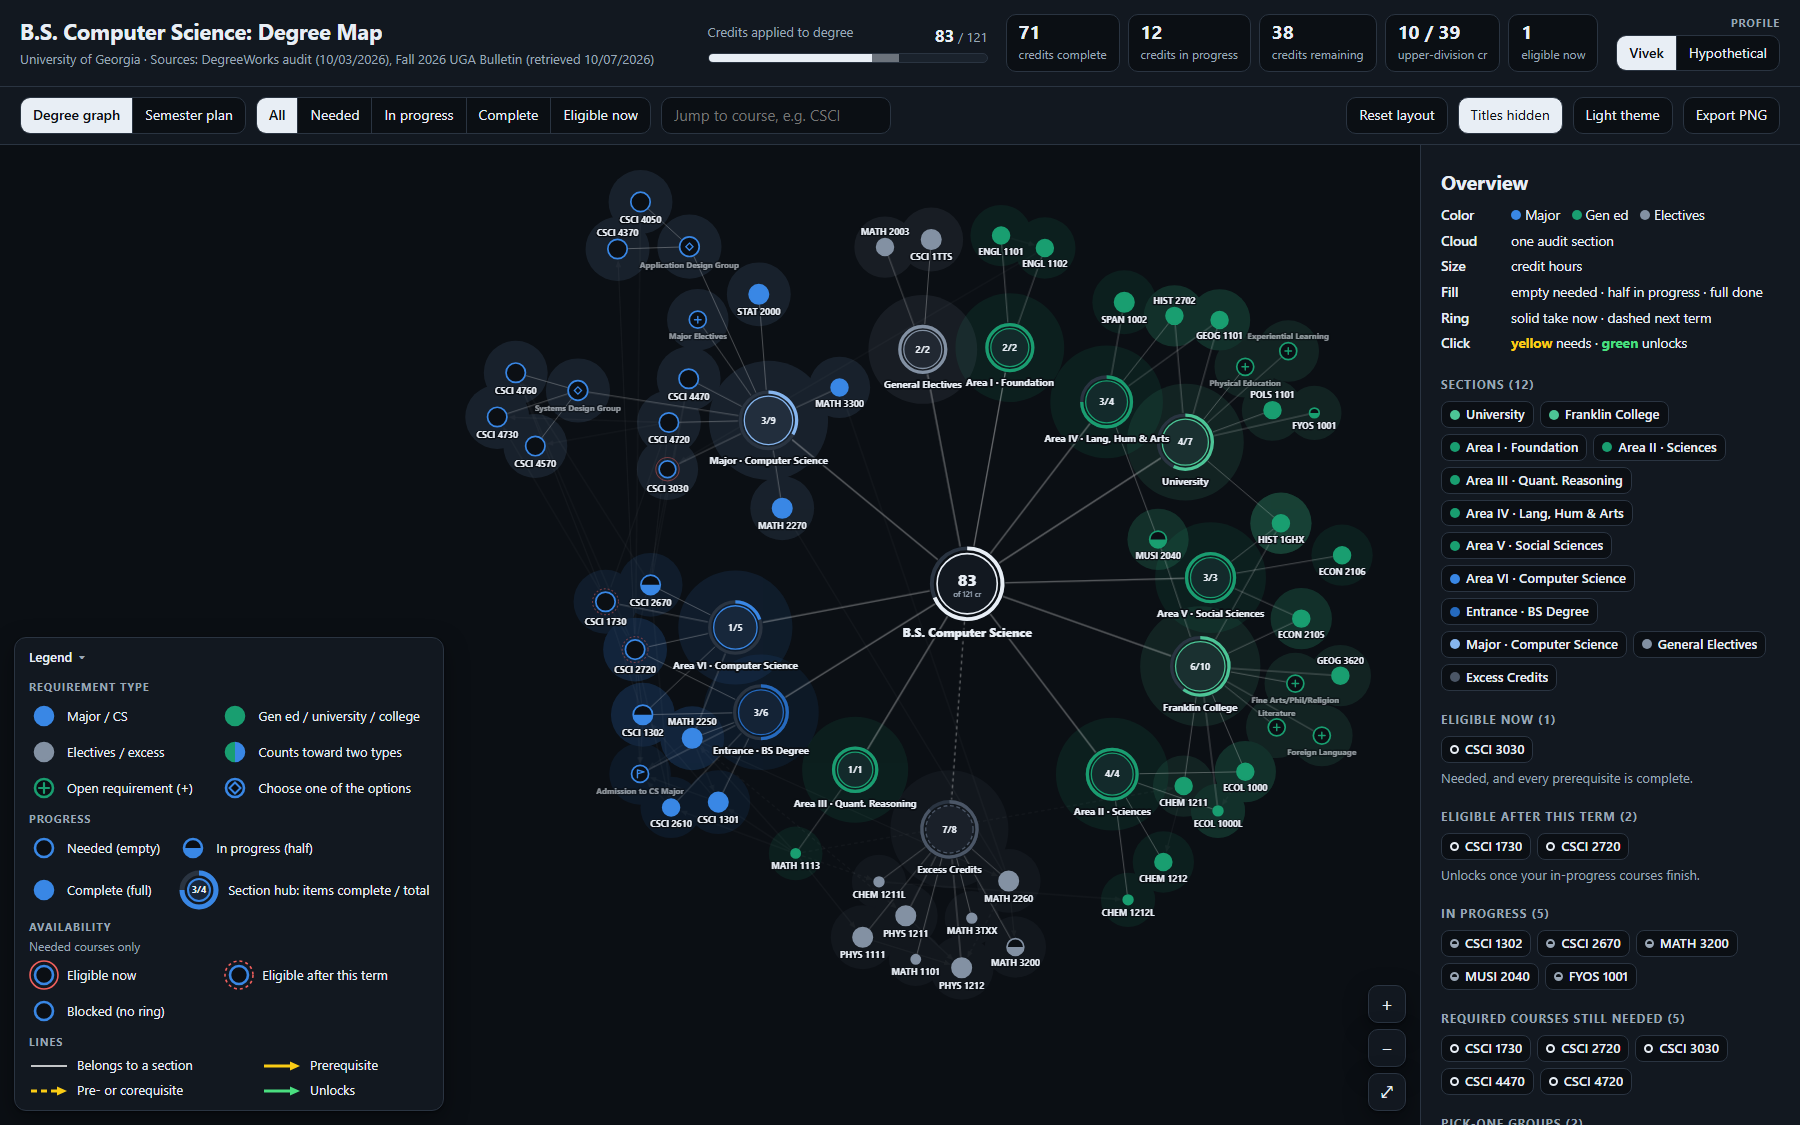
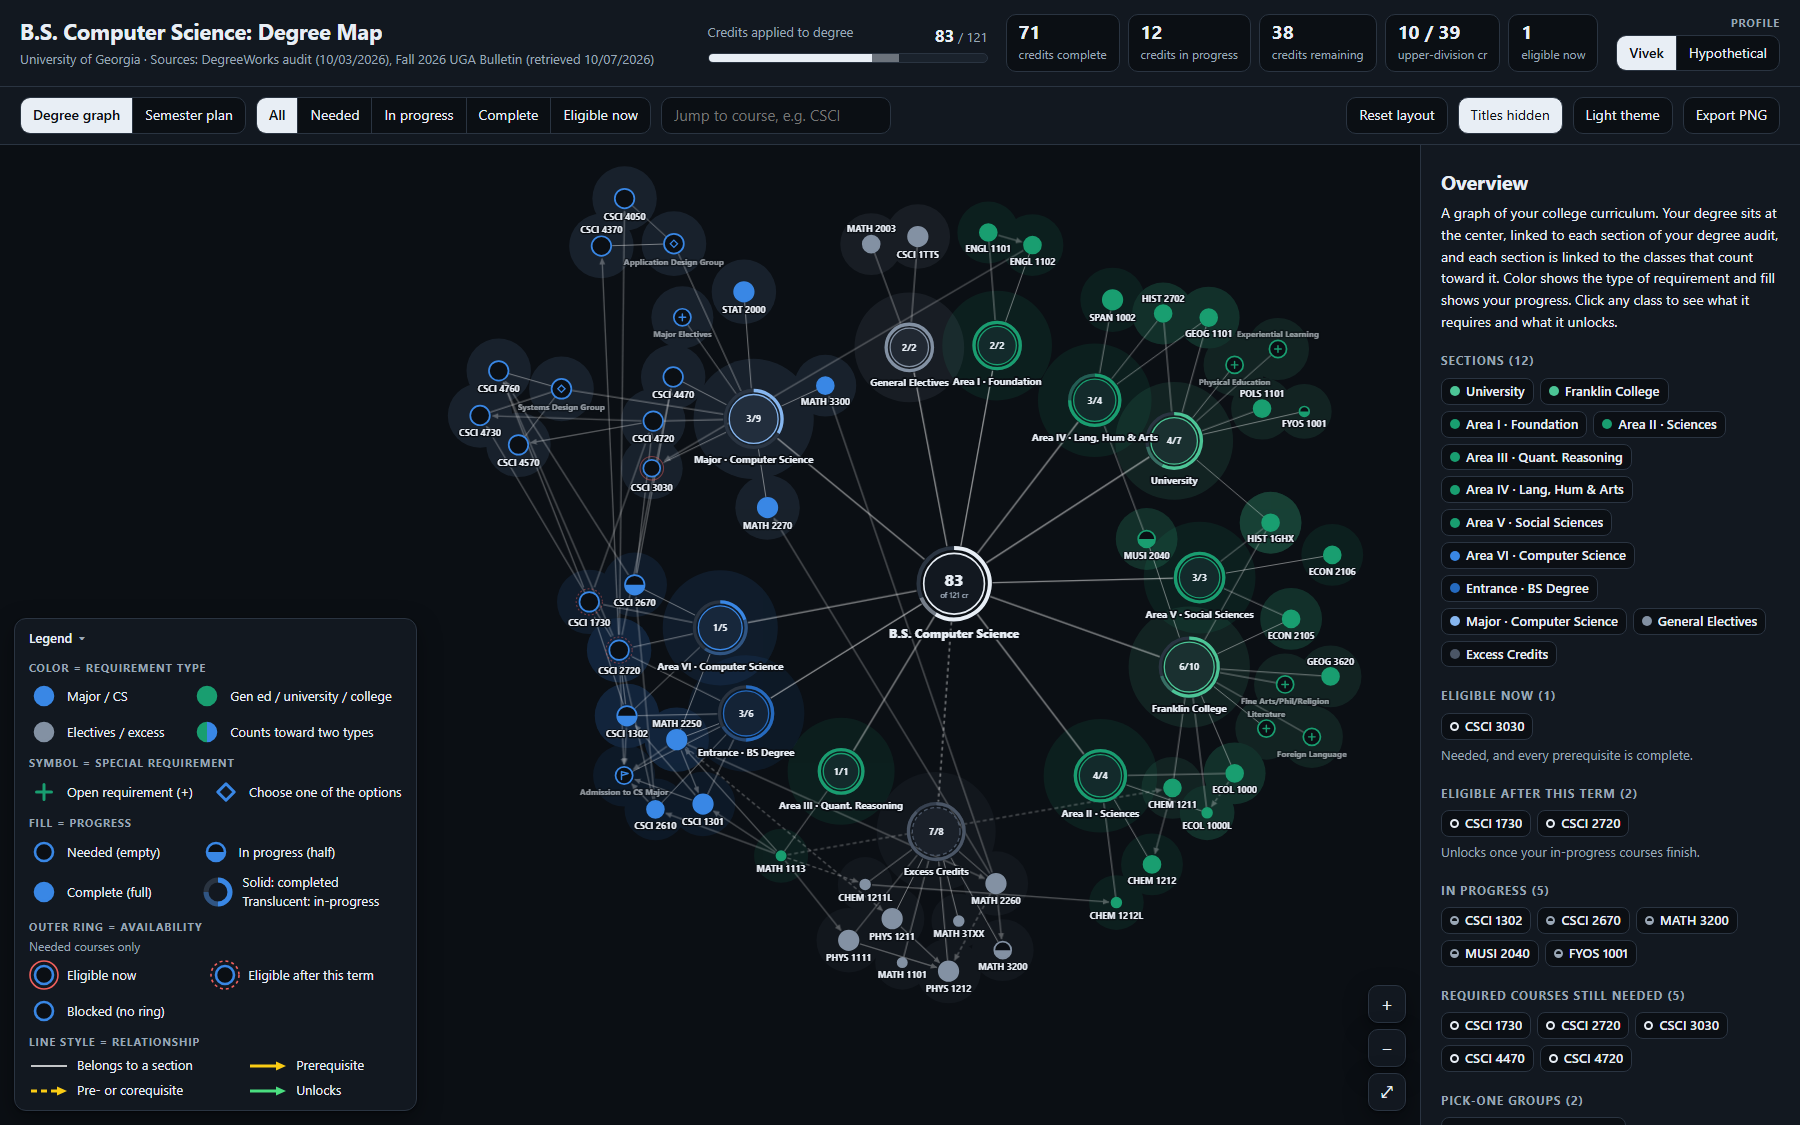
better progress tracking.

diff --git a/degree-map.html b/degree-map.html
@@ -74,6 +74,8 @@ main{flex:1;display:flex;min-height:0}
 .legend .secs-grid{display:grid;grid-template-columns:repeat(3,auto);gap:4px 14px}
 .legend .lg-h{font-size:11px;font-weight:700;text-transform:uppercase;letter-spacing:.08em;color:var(--muted);margin:8px 0 6px}
 .legend .lg-note{font-size:12px;color:var(--muted);margin:-3px 0 5px}
+.legend .lg-sub{font-size:12px;color:var(--muted);margin:2px 0 4px}
+.legend .lg-sub~.lg-sub{margin-top:8px}
 .legend .grid{grid-template-columns:auto auto}
 .legend button.sec{border:0;background:none;padding:2px 0;cursor:pointer;font-size:13px;text-align:left}
 .legend button.sec:hover{text-decoration:underline}
@@ -1562,6 +1564,8 @@ function renderLegend() {
     el("line", { x1: -18, y1: 0, x2: arrow ? 9 : 18, y2: 0, stroke: col, "stroke-width": st.w, "stroke-dasharray": st.dash, "stroke-linecap": st.cap || "butt" }, g);
     if (arrow) el("path", { d: "M8,-4.5 L18,0 L8,4.5 Z", fill: col }, g);
   });
+  // A labelled sub-block inside a section (used to separate class progress from section progress).
+  const sub = (label, rows) => `<div class="lg-sub">${label}</div><div class="grid">${rows.map(([sv, l]) => `<div class="it">${sv}<span>${l}</span></div>`).join("")}</div>`;
   const group = (h, rows, note) => `<div><div class="lg-h">${h}</div>${note ? `<div class="lg-note">${note}</div>` : ""}<div class="grid">${rows.map(([sv, l]) => `<div class="it">${sv}<span>${l}</span></div>`).join("")}</div></div>`;
   const hub = glyph(34, 34, g => progressRing(g, 12, 5, [[2, pal.fam.cs], [1, pal.fam.cs, 0.4], [1, "none"]], pal));
   document.getElementById("legend").innerHTML =
@@ -1575,12 +1579,15 @@ function renderLegend() {
       [symbol("M-5 0 H5 M0 -5 V5", pal.fam.gen), "Open requirement (+)"],
       [symbol("M0 -5.5 L5.5 0 L0 5.5 L-5.5 0 Z", pal.fam.cs), "Choose one of the options"],
     ])
-    + group("Fill = Progress", [
+    + `<div><div class="lg-h">Fill = Progress</div>`
+    + sub("Classes", [
       [node({ status: "needed" }), "Needed (empty)"],
       [node({ status: "in_progress" }), "In progress (half)"],
       [node({ status: "complete" }), "Complete (full)"],
-      [hub, "Solid: completed<br>Translucent: in-progress"],
     ])
+    + sub("Degree/Individual Sections", [
+      [hub, "Solid: completed<br>Translucent: in-progress"],
+    ]) + `</div>`
     + group("Outer ring = Availability", [
       [node({ status: "needed", elig: "now" }), "Eligible now"],
       [node({ status: "needed", elig: "next" }), "Eligible after this term"],

diff --git a/README.md b/README.md
@@ -51,26 +51,31 @@ Switching saves the choice and reloads the page. Planner settings are saved sepa
 
 ### Reading the graph
 
-Each visual property has exactly one meaning:
+Each visual property has exactly one meaning. The table follows the legend's sections, which are named the same way:
 
-| Property | Meaning |
+| Legend section | Meaning |
 |---|---|
-| **Color** | Requirement type: **blue** = major / CS (Major, Area VI, Entrance), **green** = gen ed / university / college (Areas I–V, University, Franklin College), **gray** = electives / excess. Sections of the same type use lighter or darker shades of one hue. An item that counts toward two types is split between both colors. |
-| **Fill** | Progress: **empty** = needed, **half** = in progress, **full** = complete. |
-| **Thin red outer ring** | Eligibility, shown only on courses you still need: **solid** = eligible now, **dashed** = eligible after this term, **no ring** = blocked. |
-| **Size** | Credit hours: circle area is proportional to credits (a 4-cr course has 4× the area of a 1-cr course). |
-| **Inner symbol** | Node kind: **none** = course, **+** = open requirement (e.g. Literature, Major Electives), **◇** = pick one (Application Design, Systems Design), **flag** = milestone (Admission to CS Major). Outlines are always solid. |
-| **Lines** | A thin **white line** (dark in light mode) links a course to its section, a section to the degree, and a pick-one group to its options. Prerequisite arrows are hidden until you click a course: then **yellow** arrows show what it needs and **green** arrows what it unlocks. A **solid** arrow is a prerequisite (finish it in an earlier term; "one of several" alternatives included). A **dashed** arrow is a pre- or corequisite (take it before or in the same term). The side panel lists the full AND/OR groups. |
+| **Color = Requirement type** | **Blue** = major / CS (Major, Area VI, Entrance), **green** = gen ed / university / college (Areas I–V, University, Franklin College), **gray** = electives / excess. Sections of the same type use lighter or darker shades of one hue. An item that counts toward two types is split between both colors. |
+| **Symbol = Special requirement** | A symbol inside the circle marks a requirement that isn't one specific course: **+** = open requirement filled by any qualifying course (e.g. Literature, Major Electives), **◇** = pick one of a few listed courses (Application Design, Systems Design). A **flag** marks a milestone (Admission to CS Major). Plain courses have no symbol, and every outline is solid. |
+| **Fill = Progress** | **Empty** = needed, **half** = in progress, **full** = complete. On section hubs and the center node, the ring does the same job: **solid** = completed, **translucent** = in progress. |
+| **Outer ring = Availability** | A thin red ring, shown only on courses you still need: **solid** = eligible now, **dashed** = eligible after this term, **no ring** = blocked. |
+| **Line style = Relationship** | A thin **white line** (dark in light mode) means "belongs to": a course to its section, a section to the degree, a pick-one group to its options. Prerequisite arrows are hidden until you click a course; then **solid yellow** = prerequisite (finish it in an earlier term), **dashed yellow** = pre- or corequisite (before or in the same term), **green** = what it unlocks. The side panel lists the full AND/OR groups. |
+
+**Size** isn't in the legend: circle area is proportional to credit hours (a 4-cr course has 4× the area of a 1-cr course). The Overview panel mentions it.
 
 | Element | Meaning |
 |---|---|
-| **Center node** | The degree. Its ring and number both show credits applied, including this term's in-progress courses (83 of 121 for Vivek). |
-| **Hub nodes** | The 12 audit sections, larger than courses, each in a soft cloud of its section color. The thick ring and the number inside both show items complete / total. |
+| **Center node** | The degree. The number is credits applied, including this term's in-progress courses (83 of 121 for Vivek). The ring shows the same total split into completed (solid, 71) and in progress (translucent, 12). |
+| **Hub nodes** | The 12 audit sections, larger than courses, each in a soft cloud of its section color. The number inside is items complete / total. The thick ring shows completed items solid and in-progress items translucent. |
 | **Shared courses** | A course that counts toward more than one section is pulled between those hubs, so it sits where their clouds overlap. Its tooltip lists every section. |
 
 **Progressive disclosure:** at overview zoom, the graph emphasizes requirement type, progress, hubs and course codes. Audit text, eligibility rings and open-requirement labels stay faint until you hover, select or zoom in (about 110%+). Prerequisite arrows are hidden entirely until you click a course; then only that course's arrows appear.
 
-The **Overview** panel on the right opens with a four-sentence intro: the degree at the center, its audit sections, then the classes in each, plus what color, fill and clicking do.
+The **Overview** panel on the right opens with a short intro:
+
+> A graph of your college curriculum. Your degree sits at the center, linked to each section of your degree audit, and each section is linked to the classes that count toward it. Color shows the type of requirement and fill shows your progress. Click any class to see what it requires and what it unlocks.
+
+Below it are the 12 sections and lists of courses that are eligible now, eligible after this term, in progress, still required, pick-one groups, open requirements and shared courses.
 
 ### Interacting
 
@@ -184,7 +189,7 @@ The audit doesn't contain prerequisite chains, so those come from the public [UG
 
 ### 3. The degree graph
 
-- **Rendering:** hand-written **SVG**, no charting library. Colors are literal values from a per-theme palette, so the exported PNG looks exactly like the screen. Each visual property has one job: **color** = requirement type (blue / green / gray, with related sections as lighter or darker shades of one hue), **fill** = progress, a thin **red ring** = eligibility, **size** = credit hours, an **inner symbol** (+, ◇, flag) = node kind, and a **trace pair** (yellow = needs, green = unlocks) shown only while a course is selected. The section and trace colors were checked for color-vision deficiency in both themes.
+- **Rendering:** hand-written **SVG**, no charting library. Colors are literal values from a per-theme palette, so the exported PNG looks exactly like the screen. Each visual property has one job: **color** = requirement type (blue / green / gray, with related sections as lighter or darker shades of one hue), **fill** = progress, a thin **red ring** = eligibility, **size** = credit hours, a **symbol** (+, ◇, flag) = special requirement, and a **trace pair** (yellow = needs, green = unlocks) shown only while a course is selected. The section and trace colors were checked for color-vision deficiency in both themes.
 - **Layout:** a custom **force-directed simulation**, modeled on d3-force but written from scratch:
   - **Springs:** degree→section, section→item, choice→option, and weak prerequisite springs. Link strength is split by how many sections an item belongs to, which is what places shared courses between hubs.
   - **Forces:** many-body repulsion, collision with label padding, and weak centering gravity.
@@ -193,7 +198,7 @@ The audit doesn't contain prerequisite chains, so those come from the public [UG
   - **Start:** a seeded random generator gives the same layout every load, and the simulation pre-settles for 380 steps before the first draw.
 - **Clusters:** one translucent group of circles per section, in that section's shade; overlapping groups blend where sections share courses.
 - **Labels:** a greedy declutter pass places labels in priority order (selected/hovered, then needed, in progress, complete). Each tries below, above, right, then left of its node, skipping any spot that overlaps another label, a node, or a highlighted trace arrow; if none is free it stays hidden until hovered. Arrows stop just outside a node's outermost ring (selection, eligibility or hub progress ring). Section and degree labels are always shown.
-- **Legend:** five sections, each named for the visual property it explains: *Color = Requirement type*, *Symbol = Special requirement* (+ and ◇), *Fill = Progress*, *Outer ring = Availability* and *Line style = Relationship*. *Line style* has four entries: section line, prerequisite (solid yellow), pre- or corequisite (dashed yellow) and unlocks (green). Circle size = credit hours is explained in the overview panel and the exported PNG key. Its examples are drawn by the same functions as the graph, so they match exactly. It never grows taller than the graph area: the contents scroll and the header stays pinned, so it can always be closed.
+- **Legend:** five sections, each named for the visual property it explains: *Color = Requirement type*, *Symbol = Special requirement*, *Fill = Progress*, *Outer ring = Availability* and *Line style = Relationship*. The + and ◇ are shown as bare symbols; the ring example shows half solid (completed) and a quarter translucent (in progress). *Line style* has four entries: section line, prerequisite (solid yellow), pre- or corequisite (dashed yellow) and unlocks (green). Every example is drawn by the same code as the graph, so it matches. *Fit to screen* reserves room for the legend (on the left or along the bottom, whichever leaves a bigger graph); it never grows taller than the graph area (contents scroll, header stays pinned so it can always be closed) and starts collapsed on small screens.
 - **Arrows:** shown only for the clicked course. Each is a straight line unless it would pass through another highlighted node; then it bows just enough to go around, trying a shallow bend on either side before a deeper one. A traced pick-one link becomes a green arrow from the course to its group, matching the side panel's *Unlocks* list. *Fit to screen* reserves room for it (on the left or along the bottom, whichever leaves a bigger graph), and it starts collapsed on small screens.
 - **Hover wobble:** a separate damped spring per node, so nodes wobble and always return to where the layout put them. It runs at a fixed ~60 Hz step so motion looks the same on any refresh rate, and turns off under `prefers-reduced-motion`.
 - **Eligibility:** computed with plain logic, no AI. A needed course is *eligible now* if every prerequisite group contains a completed course, and *eligible after this term* if every group has a completed or in-progress one.
